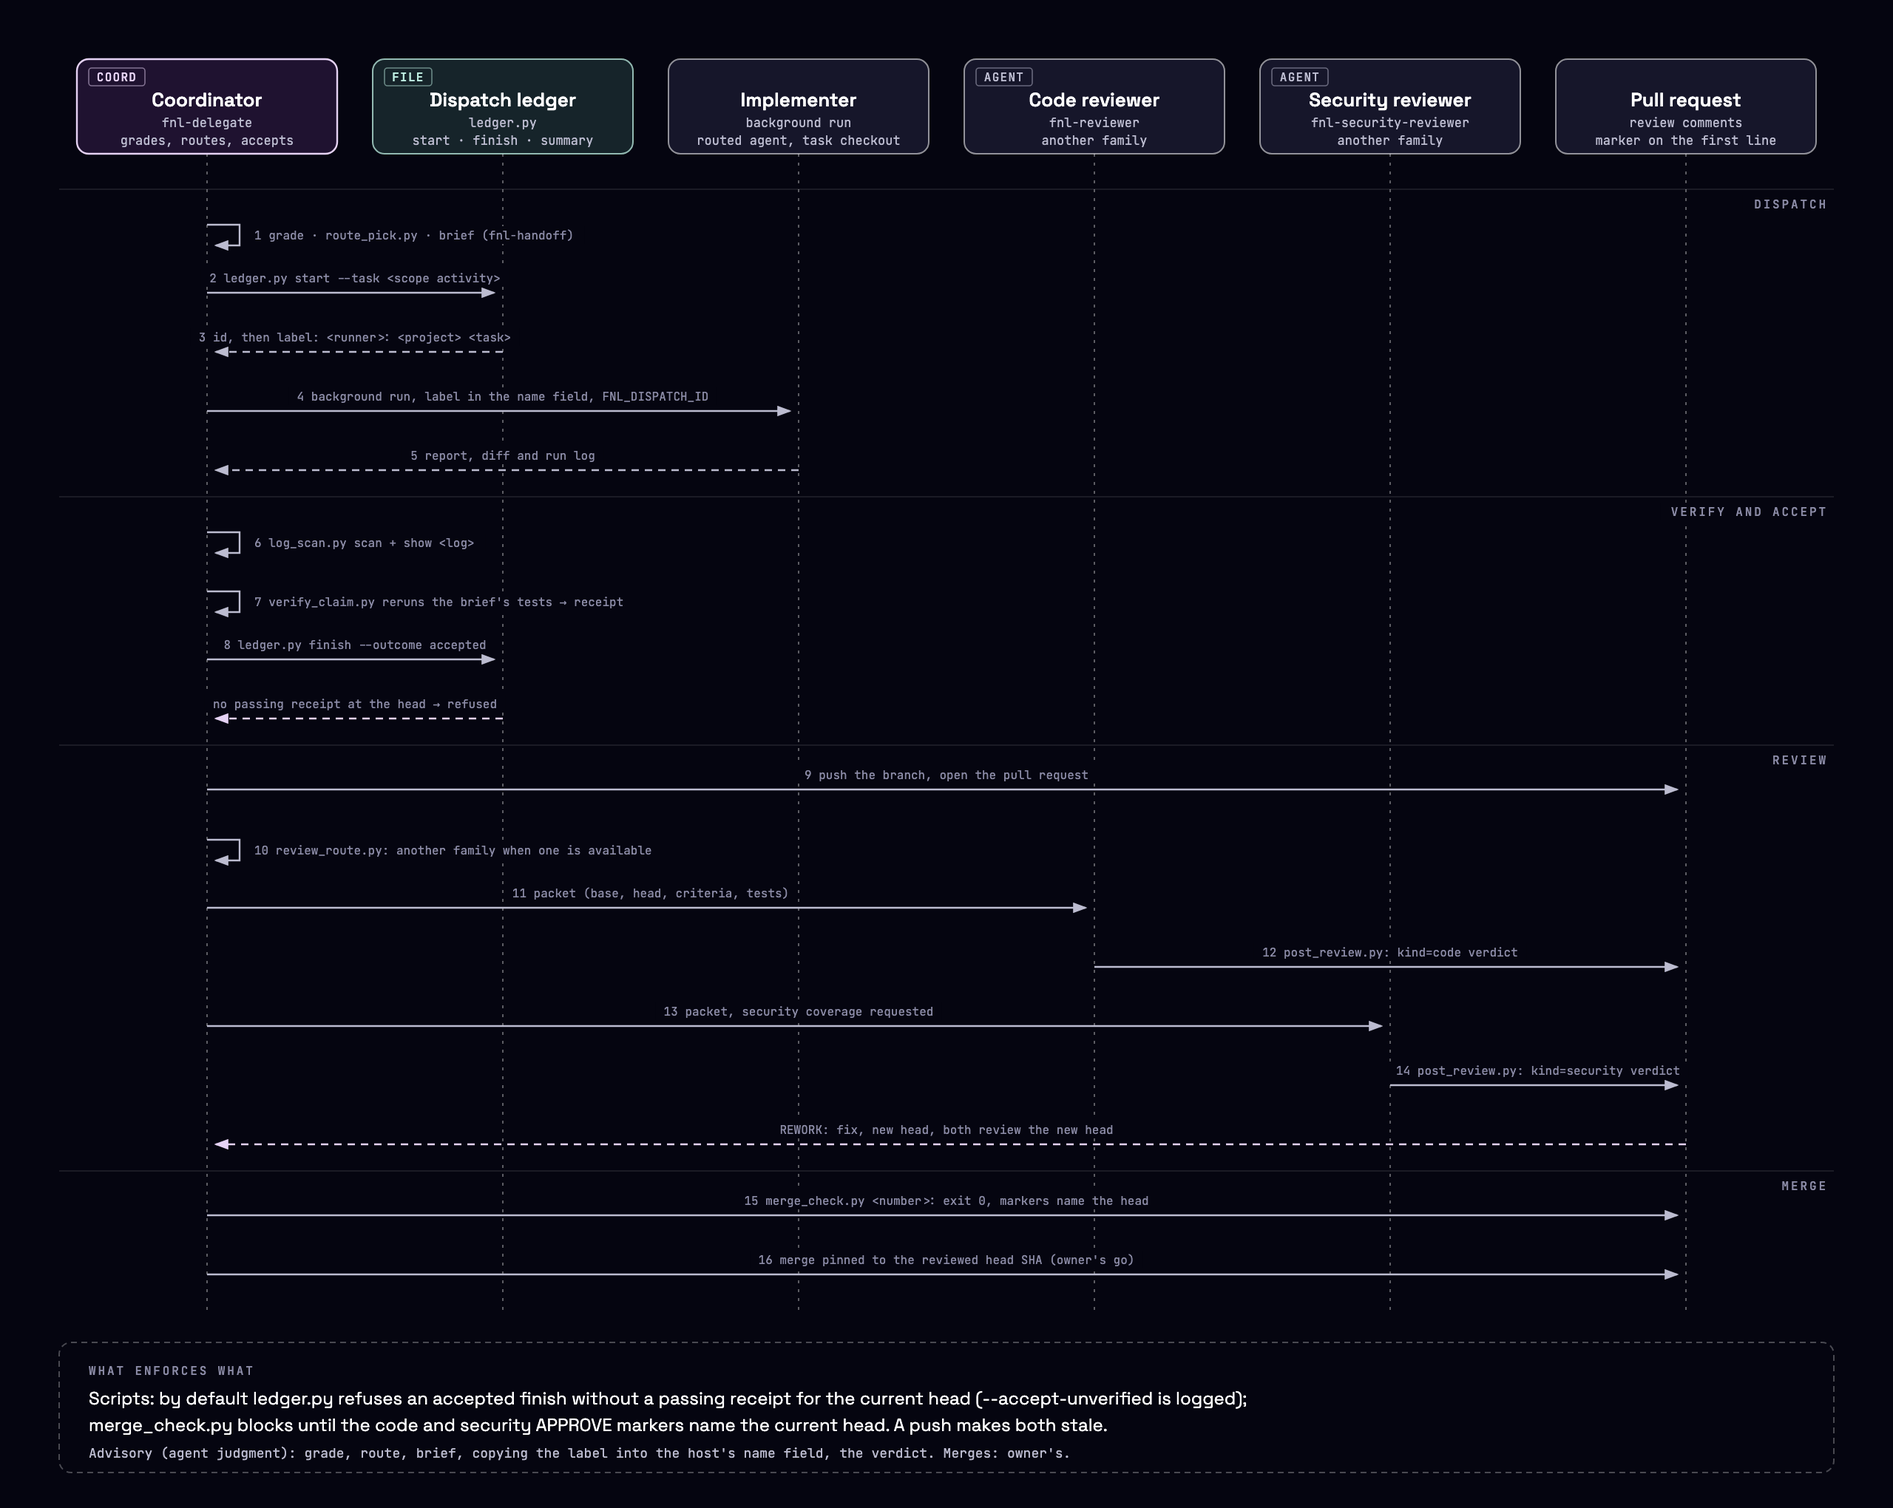
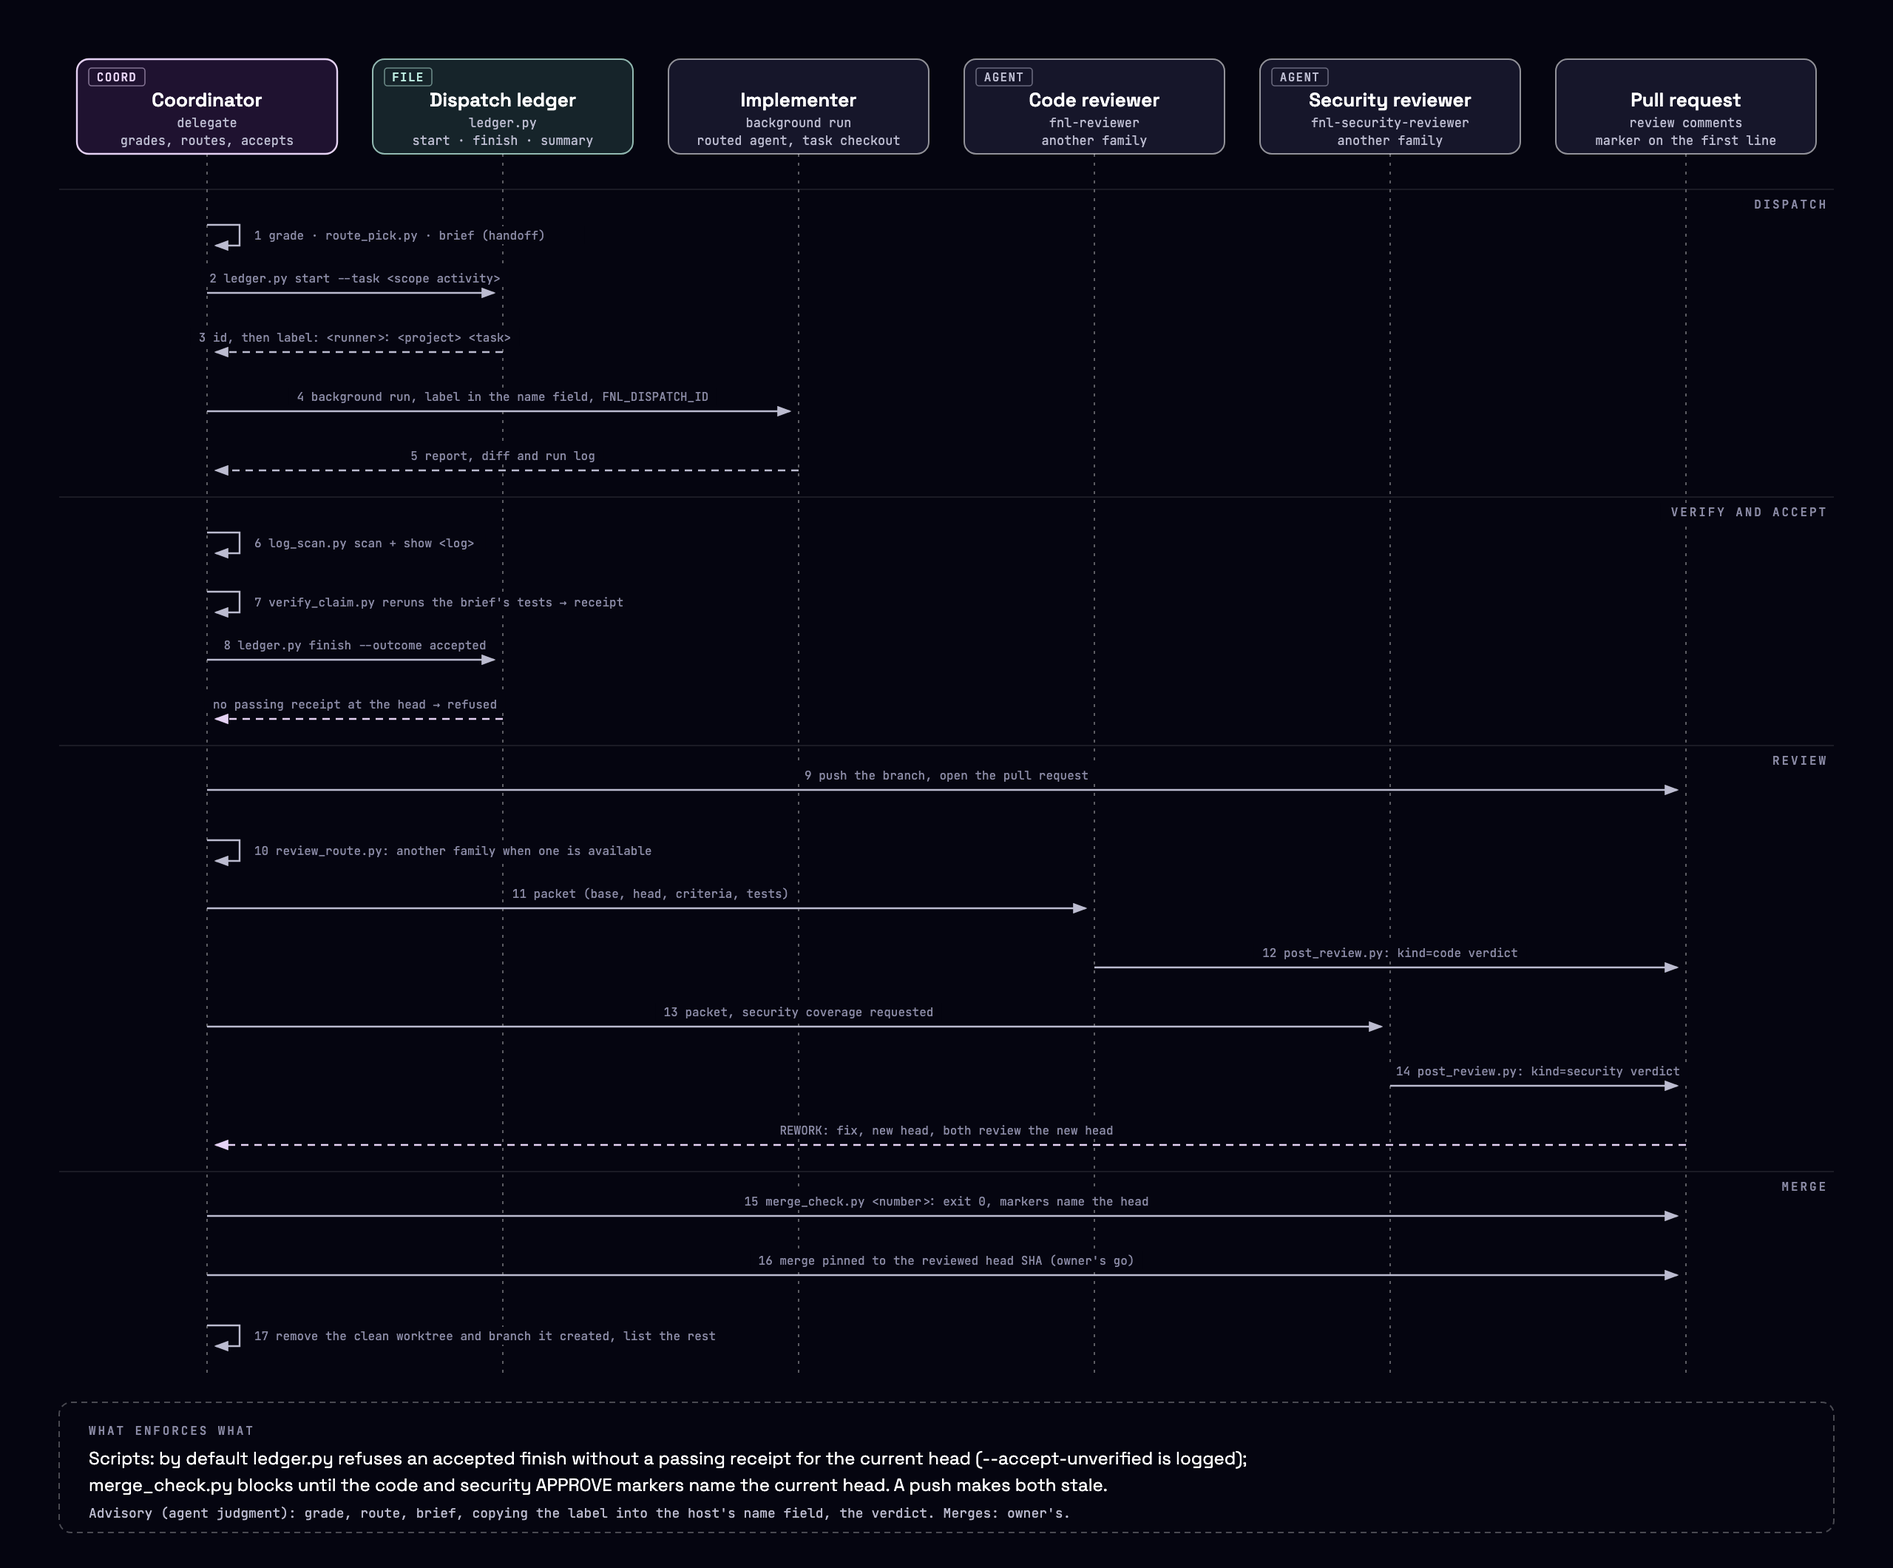
Add worktree cleanup to the delegation sequence

diff --git a/docs/diagrams/delegation-sequence-dark.html b/docs/diagrams/delegation-sequence-dark.html
@@ -14,21 +14,21 @@ svg{width:100%;min-width:900px;display:block}
 </style></head><body><div class="frame">
 <p class="eyebrow">Sequence · finolabs-vibecode</p>
 <h1>One delegated task, dispatch to merge</h1>
-<p class="sub">The ledger records the run and prints its name; the coordinator verifies and accepts; reviewers, of another family when one is available, post markers that merge_check.py reads for the current head.</p>
-<svg viewBox="0 0 1280 1020" xmlns="http://www.w3.org/2000/svg" role="img" aria-labelledby="delegation-sequence-dark-title delegation-sequence-dark-desc">
+<p class="sub">The ledger records the run and prints its name; the coordinator verifies and accepts; reviewers, of another family when one is available, post markers that merge_check.py reads for the current head; after the merge the coordinator cleans up its worktree.</p>
+<svg viewBox="0 0 1280 1060" xmlns="http://www.w3.org/2000/svg" role="img" aria-labelledby="delegation-sequence-dark-title delegation-sequence-dark-desc">
 <title id="delegation-sequence-dark-title">One delegated task, dispatch to merge</title>
-<desc id="delegation-sequence-dark-desc">Sequence diagram across six lanes: coordinator (delegate), dispatch ledger (ledger.py), implementer, code reviewer (fnl-reviewer), security reviewer (fnl-security-reviewer) and the pull request. The coordinator grades, routes with route_pick.py and briefs; ledger.py start returns the id and prints the run label on stderr, which goes into the host's name field; the implementer runs in the background and reports. The coordinator runs log_scan.py and verify_claim.py, then ledger.py finish, which by default refuses an accepted outcome without a passing receipt at the head (an --accept-unverified acceptance is logged). The coordinator opens the pull request, review_route.py picks a reviewer family other than the author's when one is available (otherwise the same family, and a security trigger then needs the user's decision), each reviewer posts its marker with post_review.py, a REWORK verdict sends the work back for a new head, and when merge_check.py passes the merge is pinned to the reviewed head with the owner's go.</desc>
+<desc id="delegation-sequence-dark-desc">Sequence diagram across six lanes: coordinator (delegate), dispatch ledger (ledger.py), implementer, code reviewer (fnl-reviewer), security reviewer (fnl-security-reviewer) and the pull request. The coordinator grades, routes with route_pick.py and briefs; ledger.py start returns the id and prints the run label on stderr, which goes into the host's name field; the implementer runs in the background and reports. The coordinator runs log_scan.py and verify_claim.py, then ledger.py finish, which by default refuses an accepted outcome without a passing receipt at the head (an --accept-unverified acceptance is logged). The coordinator opens the pull request, review_route.py picks a reviewer family other than the author's when one is available (otherwise the same family, and a security trigger then needs the user's decision), each reviewer posts its marker with post_review.py, a REWORK verdict sends the work back for a new head, and when merge_check.py passes the merge is pinned to the reviewed head with the owner's go; after the merge the coordinator removes the clean worktree and branch it created and lists the rest.</desc>
 <defs>
 <marker id="arrow" markerWidth="8" markerHeight="6" refX="7" refY="3" orient="auto"><polygon points="0 0, 8 3, 0 6" fill="#BCBCD0"/></marker>
 <marker id="arrow-accent" markerWidth="8" markerHeight="6" refX="7" refY="3" orient="auto"><polygon points="0 0, 8 3, 0 6" fill="#E5D2F4"/></marker>
 </defs>
 <rect width="100%" height="100%" fill="#050510"/>
-<path d="M140,104 L140,888" fill="none" stroke="rgba(255,255,255,0.35)" stroke-width="1" stroke-dasharray="2,4"/>
-<path d="M340,104 L340,888" fill="none" stroke="rgba(255,255,255,0.35)" stroke-width="1" stroke-dasharray="2,4"/>
-<path d="M540,104 L540,888" fill="none" stroke="rgba(255,255,255,0.35)" stroke-width="1" stroke-dasharray="2,4"/>
-<path d="M740,104 L740,888" fill="none" stroke="rgba(255,255,255,0.35)" stroke-width="1" stroke-dasharray="2,4"/>
-<path d="M940,104 L940,888" fill="none" stroke="rgba(255,255,255,0.35)" stroke-width="1" stroke-dasharray="2,4"/>
-<path d="M1140,104 L1140,888" fill="none" stroke="rgba(255,255,255,0.35)" stroke-width="1" stroke-dasharray="2,4"/>
+<path d="M140,104 L140,928" fill="none" stroke="rgba(255,255,255,0.35)" stroke-width="1" stroke-dasharray="2,4"/>
+<path d="M340,104 L340,928" fill="none" stroke="rgba(255,255,255,0.35)" stroke-width="1" stroke-dasharray="2,4"/>
+<path d="M540,104 L540,928" fill="none" stroke="rgba(255,255,255,0.35)" stroke-width="1" stroke-dasharray="2,4"/>
+<path d="M740,104 L740,928" fill="none" stroke="rgba(255,255,255,0.35)" stroke-width="1" stroke-dasharray="2,4"/>
+<path d="M940,104 L940,928" fill="none" stroke="rgba(255,255,255,0.35)" stroke-width="1" stroke-dasharray="2,4"/>
+<path d="M1140,104 L1140,928" fill="none" stroke="rgba(255,255,255,0.35)" stroke-width="1" stroke-dasharray="2,4"/>
 <rect x="52" y="40" width="176" height="64" rx="8" fill="#050510"/>
 <rect x="52" y="40" width="176" height="64" rx="8" fill="rgba(151,80,196,0.18)" stroke="#E5D2F4" stroke-width="1.2"/>
 <rect x="60" y="46" width="38" height="12" rx="2" fill="none" stroke="#E5D2F4" stroke-opacity="0.5" stroke-width="0.8"/>
@@ -133,9 +133,12 @@ svg{width:100%;min-width:900px;display:block}
 <path d="M140,862 L1134,862" fill="none" stroke="#BCBCD0" stroke-width="1.2" marker-end="url(#arrow)"/>
 <rect x="507.1" y="846" width="265.8" height="12" fill="#050510"/>
 <text x="640" y="855" fill="#8B8BA6" font-size="8" font-family="'JetBrains Mono', ui-monospace, monospace" text-anchor="middle">16 merge pinned to the reviewed head SHA (owner's go)</text>
-<rect x="40" y="908" width="1200" height="88" rx="8" fill="none" stroke="rgba(255,255,255,0.55)" stroke-opacity="0.5" stroke-width="1" stroke-dasharray="4,3"/>
-<text x="60" y="930" fill="#8B8BA6" font-size="8" font-weight="500" font-family="'JetBrains Mono', ui-monospace, monospace" letter-spacing="0.18em">WHAT ENFORCES WHAT</text>
-<text x="60" y="950" fill="#FFFFFF" font-size="12" font-family="'Space Grotesk', system-ui, sans-serif">Scripts: by default ledger.py refuses an accepted finish without a passing receipt for the current head (--accept-unverified is logged);</text>
-<text x="60" y="968" fill="#FFFFFF" font-size="12" font-family="'Space Grotesk', system-ui, sans-serif">merge_check.py blocks until the code and security APPROVE markers name the current head. A push makes both stale.</text>
-<text x="60" y="986" fill="#BCBCD0" font-size="9" font-family="'JetBrains Mono', ui-monospace, monospace">Advisory (agent judgment): grade, route, brief, copying the label into the host's name field, the verdict. Merges: owner's.</text>
+<path d="M140,896 L162,896 L162,910 L146,910" fill="none" stroke="#BCBCD0" stroke-width="1.2" marker-end="url(#arrow)"/>
+<rect x="168" y="897" width="290" height="12" fill="#050510"/>
+<text x="172" y="906" fill="#8B8BA6" font-size="8" font-family="'JetBrains Mono', ui-monospace, monospace" text-anchor="start">17 remove the clean worktree and branch it created, list the rest</text>
+<rect x="40" y="948" width="1200" height="88" rx="8" fill="none" stroke="rgba(255,255,255,0.55)" stroke-opacity="0.5" stroke-width="1" stroke-dasharray="4,3"/>
+<text x="60" y="970" fill="#8B8BA6" font-size="8" font-weight="500" font-family="'JetBrains Mono', ui-monospace, monospace" letter-spacing="0.18em">WHAT ENFORCES WHAT</text>
+<text x="60" y="990" fill="#FFFFFF" font-size="12" font-family="'Space Grotesk', system-ui, sans-serif">Scripts: by default ledger.py refuses an accepted finish without a passing receipt for the current head (--accept-unverified is logged);</text>
+<text x="60" y="1008" fill="#FFFFFF" font-size="12" font-family="'Space Grotesk', system-ui, sans-serif">merge_check.py blocks until the code and security APPROVE markers name the current head. A push makes both stale.</text>
+<text x="60" y="1026" fill="#BCBCD0" font-size="9" font-family="'JetBrains Mono', ui-monospace, monospace">Advisory (agent judgment): grade, route, brief, copying the label into the host's name field, the verdict. Merges: owner's.</text>
 </svg></div></body></html>

diff --git a/docs/diagrams/delegation-sequence-light.html b/docs/diagrams/delegation-sequence-light.html
@@ -14,21 +14,21 @@ svg{width:100%;min-width:900px;display:block}
 </style></head><body><div class="frame">
 <p class="eyebrow">Sequence · finolabs-vibecode</p>
 <h1>One delegated task, dispatch to merge</h1>
-<p class="sub">The ledger records the run and prints its name; the coordinator verifies and accepts; reviewers, of another family when one is available, post markers that merge_check.py reads for the current head.</p>
-<svg viewBox="0 0 1280 1020" xmlns="http://www.w3.org/2000/svg" role="img" aria-labelledby="delegation-sequence-light-title delegation-sequence-light-desc">
+<p class="sub">The ledger records the run and prints its name; the coordinator verifies and accepts; reviewers, of another family when one is available, post markers that merge_check.py reads for the current head; after the merge the coordinator cleans up its worktree.</p>
+<svg viewBox="0 0 1280 1060" xmlns="http://www.w3.org/2000/svg" role="img" aria-labelledby="delegation-sequence-light-title delegation-sequence-light-desc">
 <title id="delegation-sequence-light-title">One delegated task, dispatch to merge</title>
-<desc id="delegation-sequence-light-desc">Sequence diagram across six lanes: coordinator (delegate), dispatch ledger (ledger.py), implementer, code reviewer (fnl-reviewer), security reviewer (fnl-security-reviewer) and the pull request. The coordinator grades, routes with route_pick.py and briefs; ledger.py start returns the id and prints the run label on stderr, which goes into the host's name field; the implementer runs in the background and reports. The coordinator runs log_scan.py and verify_claim.py, then ledger.py finish, which by default refuses an accepted outcome without a passing receipt at the head (an --accept-unverified acceptance is logged). The coordinator opens the pull request, review_route.py picks a reviewer family other than the author's when one is available (otherwise the same family, and a security trigger then needs the user's decision), each reviewer posts its marker with post_review.py, a REWORK verdict sends the work back for a new head, and when merge_check.py passes the merge is pinned to the reviewed head with the owner's go.</desc>
+<desc id="delegation-sequence-light-desc">Sequence diagram across six lanes: coordinator (delegate), dispatch ledger (ledger.py), implementer, code reviewer (fnl-reviewer), security reviewer (fnl-security-reviewer) and the pull request. The coordinator grades, routes with route_pick.py and briefs; ledger.py start returns the id and prints the run label on stderr, which goes into the host's name field; the implementer runs in the background and reports. The coordinator runs log_scan.py and verify_claim.py, then ledger.py finish, which by default refuses an accepted outcome without a passing receipt at the head (an --accept-unverified acceptance is logged). The coordinator opens the pull request, review_route.py picks a reviewer family other than the author's when one is available (otherwise the same family, and a security trigger then needs the user's decision), each reviewer posts its marker with post_review.py, a REWORK verdict sends the work back for a new head, and when merge_check.py passes the merge is pinned to the reviewed head with the owner's go; after the merge the coordinator removes the clean worktree and branch it created and lists the rest.</desc>
 <defs>
 <marker id="arrow" markerWidth="8" markerHeight="6" refX="7" refY="3" orient="auto"><polygon points="0 0, 8 3, 0 6" fill="#5b5b79"/></marker>
 <marker id="arrow-accent" markerWidth="8" markerHeight="6" refX="7" refY="3" orient="auto"><polygon points="0 0, 8 3, 0 6" fill="#4B1E73"/></marker>
 </defs>
 <rect width="100%" height="100%" fill="#F7F7FB"/>
-<path d="M140,104 L140,888" fill="none" stroke="rgba(11,11,23,0.35)" stroke-width="1" stroke-dasharray="2,4"/>
-<path d="M340,104 L340,888" fill="none" stroke="rgba(11,11,23,0.35)" stroke-width="1" stroke-dasharray="2,4"/>
-<path d="M540,104 L540,888" fill="none" stroke="rgba(11,11,23,0.35)" stroke-width="1" stroke-dasharray="2,4"/>
-<path d="M740,104 L740,888" fill="none" stroke="rgba(11,11,23,0.35)" stroke-width="1" stroke-dasharray="2,4"/>
-<path d="M940,104 L940,888" fill="none" stroke="rgba(11,11,23,0.35)" stroke-width="1" stroke-dasharray="2,4"/>
-<path d="M1140,104 L1140,888" fill="none" stroke="rgba(11,11,23,0.35)" stroke-width="1" stroke-dasharray="2,4"/>
+<path d="M140,104 L140,928" fill="none" stroke="rgba(11,11,23,0.35)" stroke-width="1" stroke-dasharray="2,4"/>
+<path d="M340,104 L340,928" fill="none" stroke="rgba(11,11,23,0.35)" stroke-width="1" stroke-dasharray="2,4"/>
+<path d="M540,104 L540,928" fill="none" stroke="rgba(11,11,23,0.35)" stroke-width="1" stroke-dasharray="2,4"/>
+<path d="M740,104 L740,928" fill="none" stroke="rgba(11,11,23,0.35)" stroke-width="1" stroke-dasharray="2,4"/>
+<path d="M940,104 L940,928" fill="none" stroke="rgba(11,11,23,0.35)" stroke-width="1" stroke-dasharray="2,4"/>
+<path d="M1140,104 L1140,928" fill="none" stroke="rgba(11,11,23,0.35)" stroke-width="1" stroke-dasharray="2,4"/>
 <rect x="52" y="40" width="176" height="64" rx="8" fill="#F7F7FB"/>
 <rect x="52" y="40" width="176" height="64" rx="8" fill="#EDDFF7" stroke="#4B1E73" stroke-width="1.2"/>
 <rect x="60" y="46" width="38" height="12" rx="2" fill="none" stroke="#4B1E73" stroke-opacity="0.5" stroke-width="0.8"/>
@@ -133,9 +133,12 @@ svg{width:100%;min-width:900px;display:block}
 <path d="M140,862 L1134,862" fill="none" stroke="#5b5b79" stroke-width="1.2" marker-end="url(#arrow)"/>
 <rect x="507.1" y="846" width="265.8" height="12" fill="#F7F7FB"/>
 <text x="640" y="855" fill="#5B5B79" font-size="8" font-family="'JetBrains Mono', ui-monospace, monospace" text-anchor="middle">16 merge pinned to the reviewed head SHA (owner's go)</text>
-<rect x="40" y="908" width="1200" height="88" rx="8" fill="none" stroke="rgba(11,11,23,0.7)" stroke-opacity="0.5" stroke-width="1" stroke-dasharray="4,3"/>
-<text x="60" y="930" fill="#5B5B79" font-size="8" font-weight="500" font-family="'JetBrains Mono', ui-monospace, monospace" letter-spacing="0.18em">WHAT ENFORCES WHAT</text>
-<text x="60" y="950" fill="#0B0B17" font-size="12" font-family="'Space Grotesk', system-ui, sans-serif">Scripts: by default ledger.py refuses an accepted finish without a passing receipt for the current head (--accept-unverified is logged);</text>
-<text x="60" y="968" fill="#0B0B17" font-size="12" font-family="'Space Grotesk', system-ui, sans-serif">merge_check.py blocks until the code and security APPROVE markers name the current head. A push makes both stale.</text>
-<text x="60" y="986" fill="#5b5b79" font-size="9" font-family="'JetBrains Mono', ui-monospace, monospace">Advisory (agent judgment): grade, route, brief, copying the label into the host's name field, the verdict. Merges: owner's.</text>
+<path d="M140,896 L162,896 L162,910 L146,910" fill="none" stroke="#5b5b79" stroke-width="1.2" marker-end="url(#arrow)"/>
+<rect x="168" y="897" width="290" height="12" fill="#F7F7FB"/>
+<text x="172" y="906" fill="#5B5B79" font-size="8" font-family="'JetBrains Mono', ui-monospace, monospace" text-anchor="start">17 remove the clean worktree and branch it created, list the rest</text>
+<rect x="40" y="948" width="1200" height="88" rx="8" fill="none" stroke="rgba(11,11,23,0.7)" stroke-opacity="0.5" stroke-width="1" stroke-dasharray="4,3"/>
+<text x="60" y="970" fill="#5B5B79" font-size="8" font-weight="500" font-family="'JetBrains Mono', ui-monospace, monospace" letter-spacing="0.18em">WHAT ENFORCES WHAT</text>
+<text x="60" y="990" fill="#0B0B17" font-size="12" font-family="'Space Grotesk', system-ui, sans-serif">Scripts: by default ledger.py refuses an accepted finish without a passing receipt for the current head (--accept-unverified is logged);</text>
+<text x="60" y="1008" fill="#0B0B17" font-size="12" font-family="'Space Grotesk', system-ui, sans-serif">merge_check.py blocks until the code and security APPROVE markers name the current head. A push makes both stale.</text>
+<text x="60" y="1026" fill="#5b5b79" font-size="9" font-family="'JetBrains Mono', ui-monospace, monospace">Advisory (agent judgment): grade, route, brief, copying the label into the host's name field, the verdict. Merges: owner's.</text>
 </svg></div></body></html>
